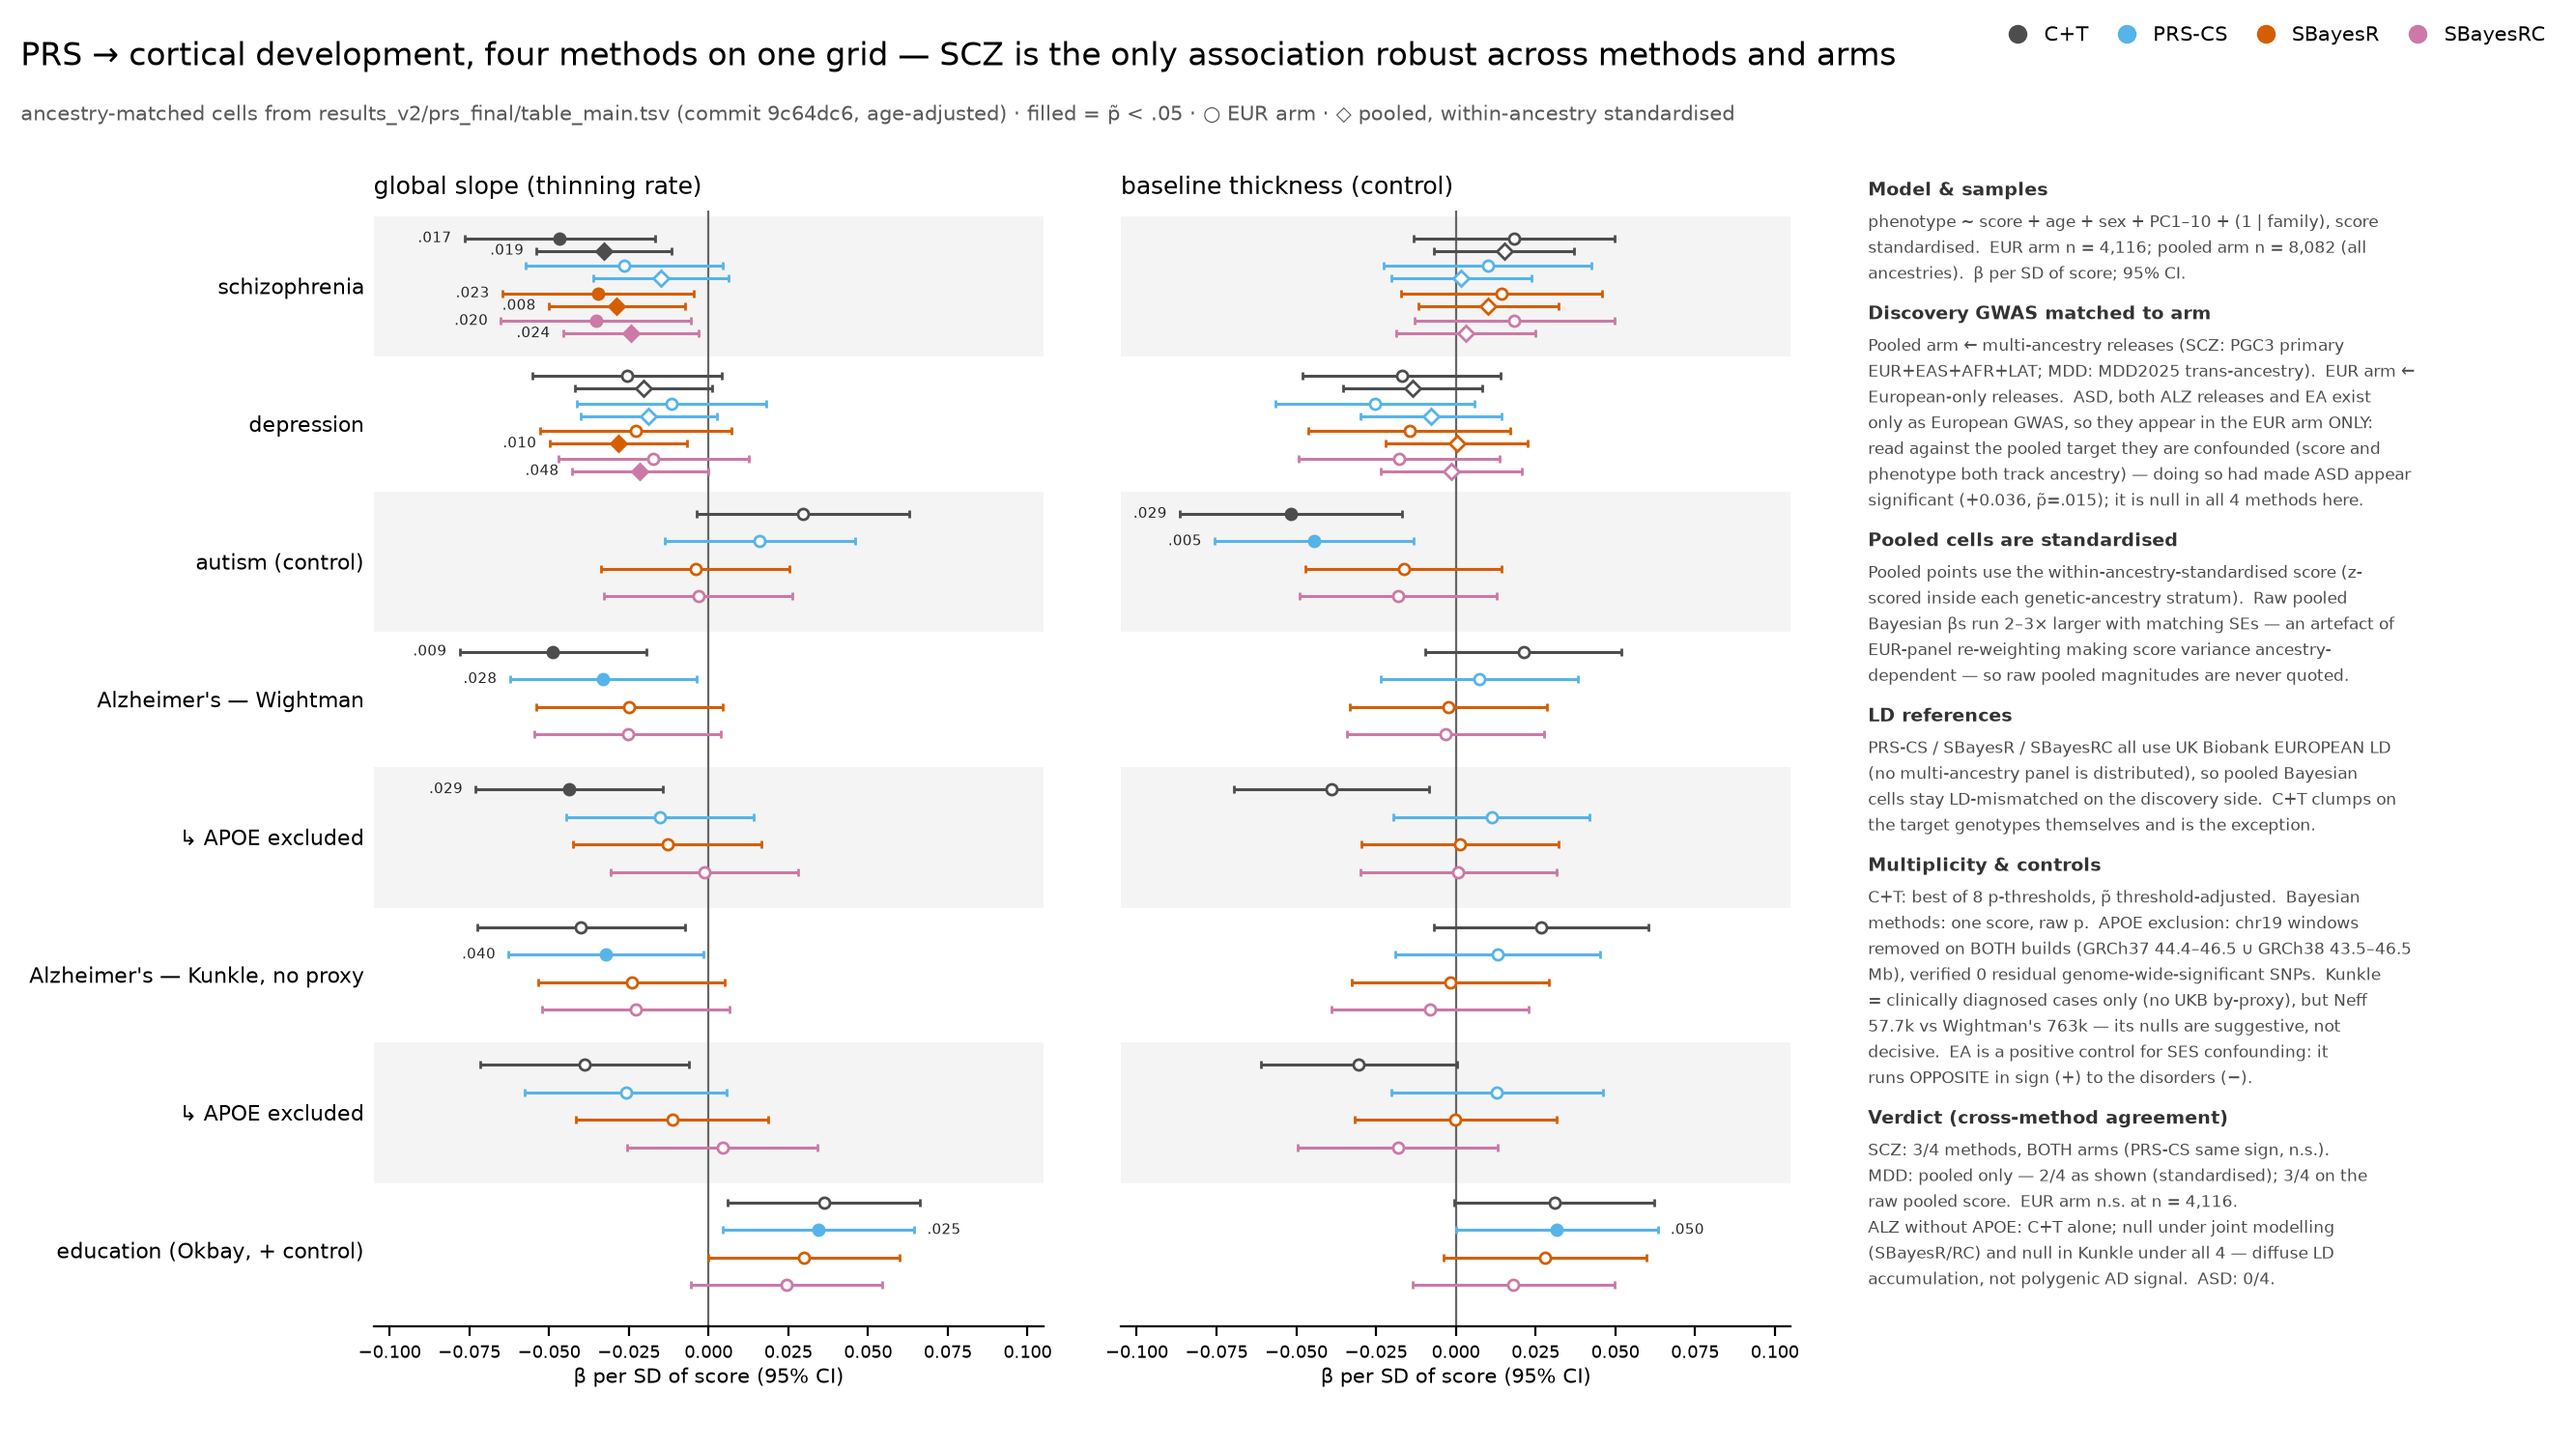
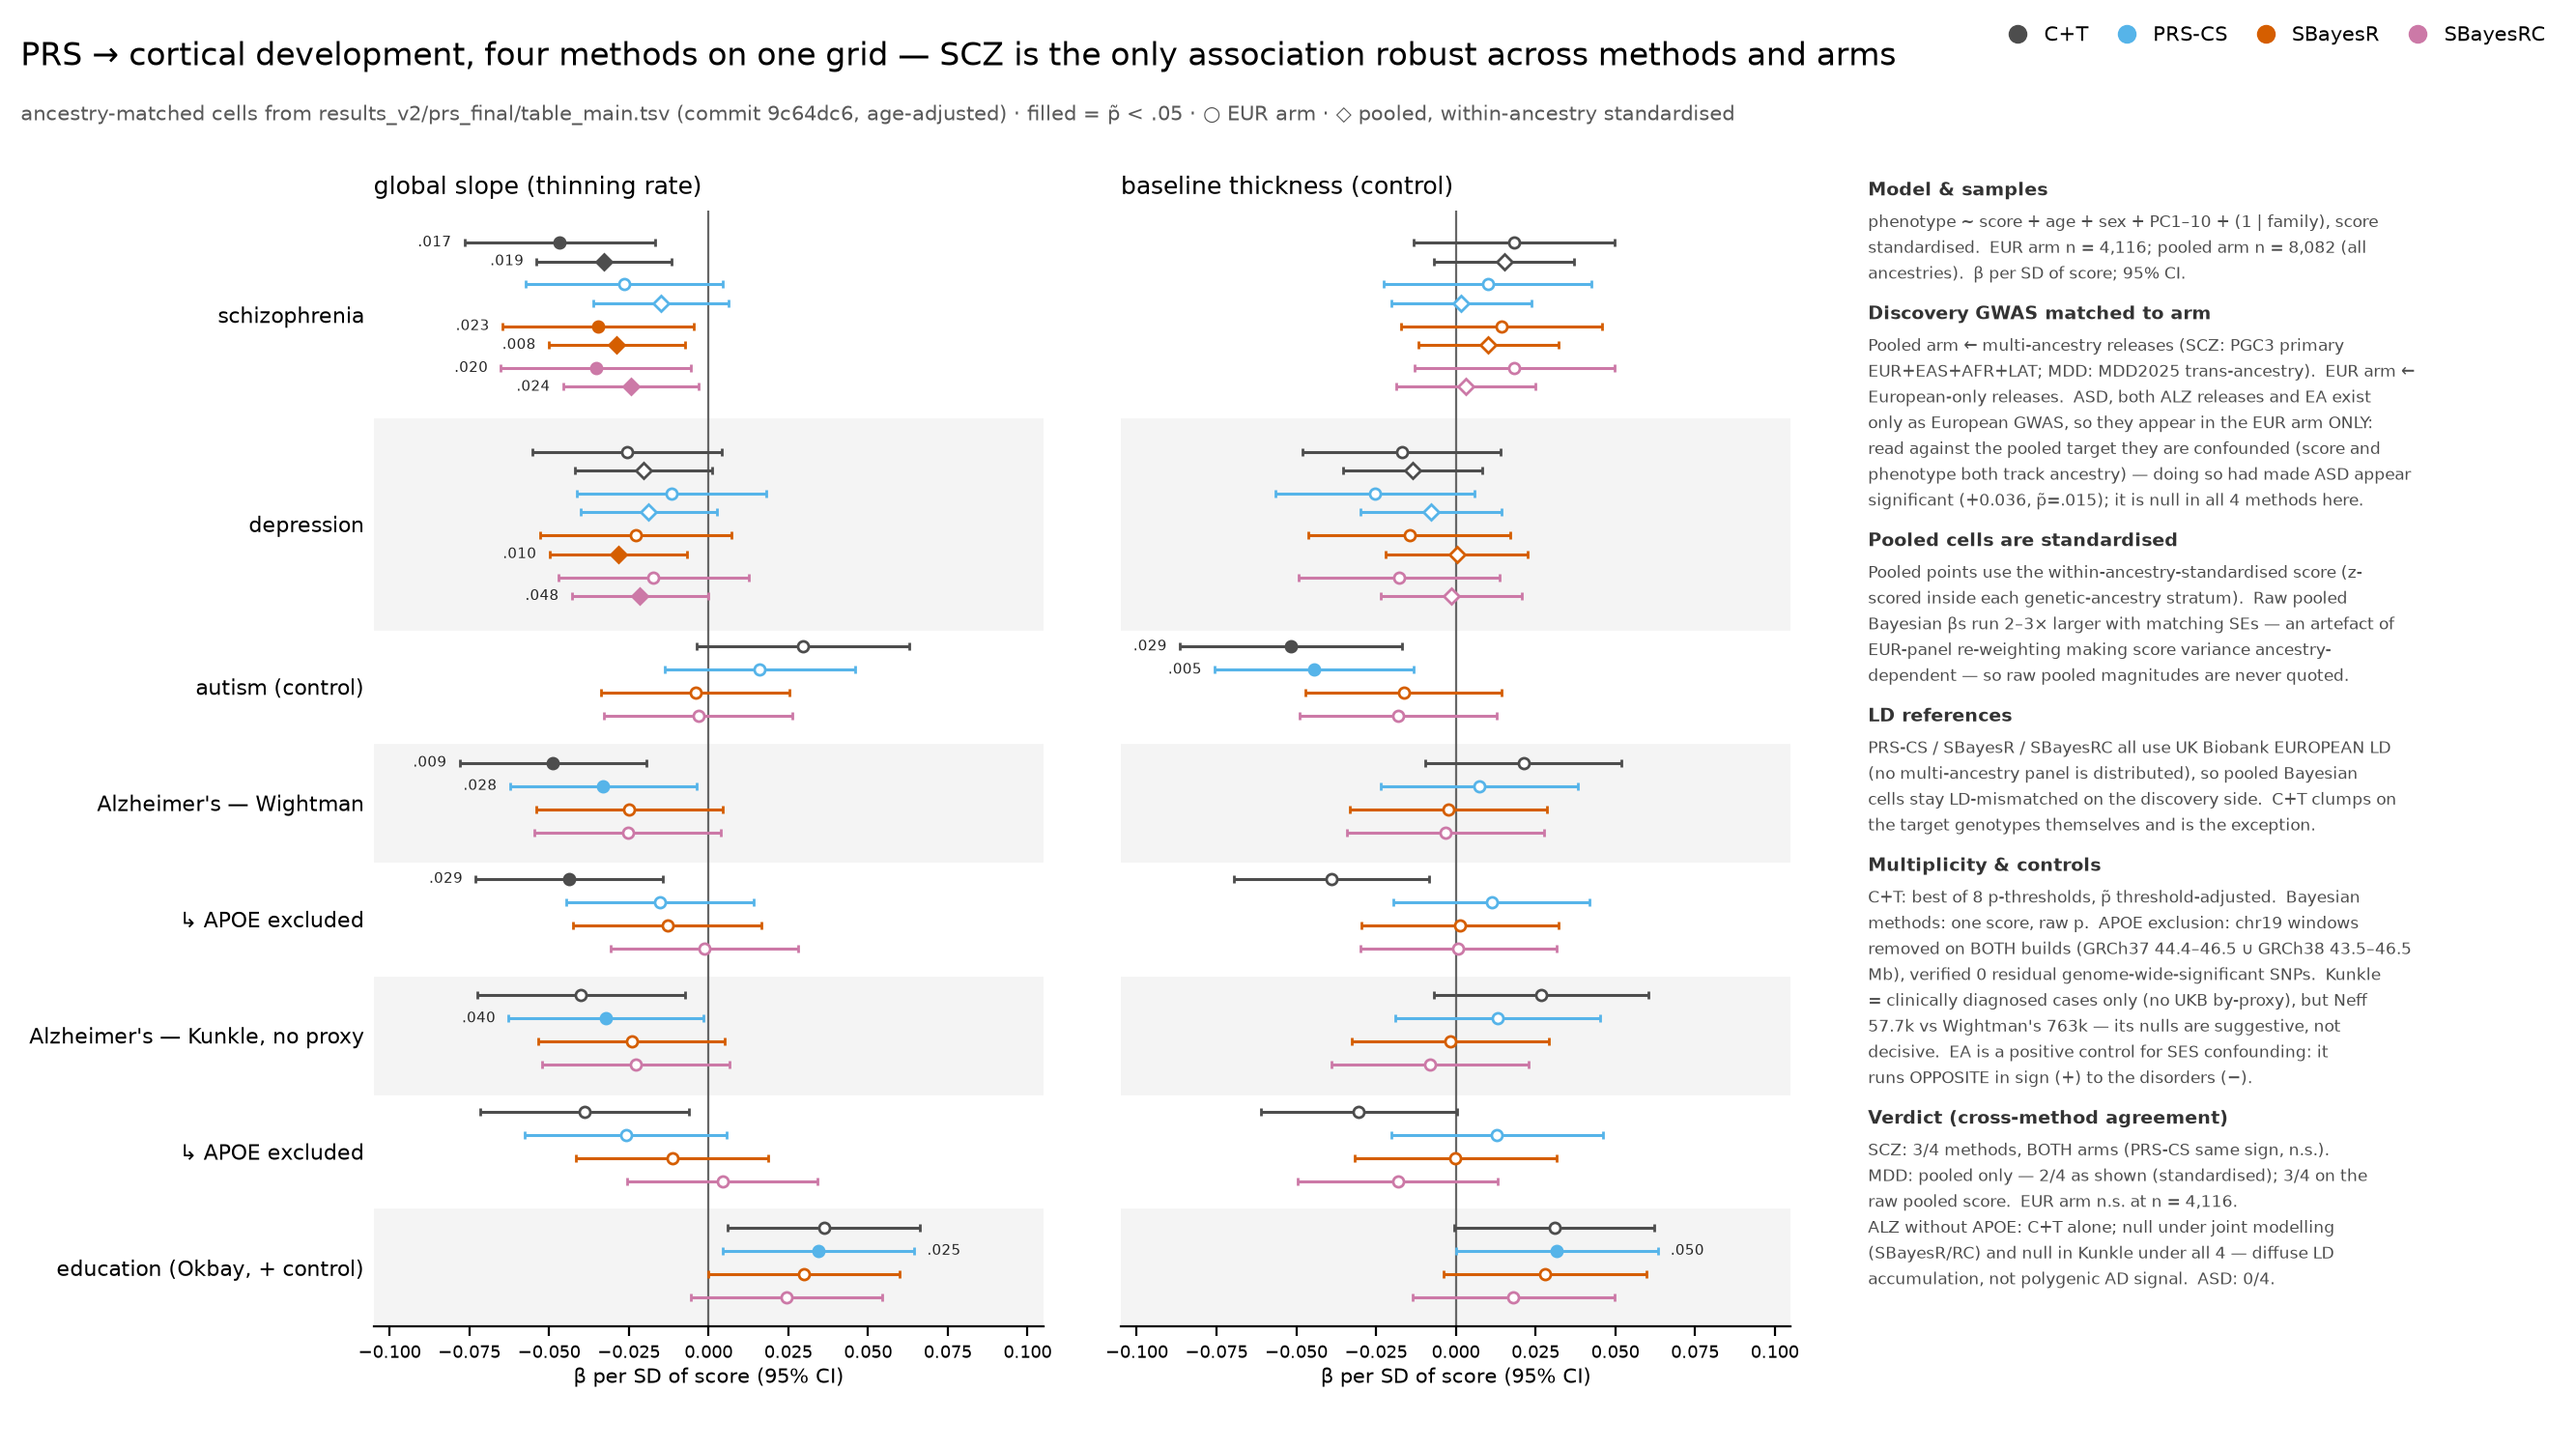
hpc_v3: variable band heights on the methods slide (space='free_y' behaviour)
SCZ and MDD carry 8 markers per band (4 methods x 2 arms) against the
controls' 4, and were cramped at uniform band height. Bands now declare a
height (1.8 for the two-arm disorders, 1.0 for controls) and marker dodges
scale in units of the band's own height, so each band's markers fill it
evenly -- the ggplot facet_grid(space='free_y') behaviour, done manually
since the layout is hand-placed axes.

diff --git a/hpc_v3/slide_prs_methods.py b/hpc_v3/slide_prs_methods.py
@@ -39,17 +39,27 @@ PHENOS = ["global_slope", "baseline_thickness"]
 PHENO_TITLE = {"global_slope": "global slope (thinning rate)",
                "baseline_thickness": "baseline thickness (control)"}
 
-#: facet rows, top to bottom: hypothesis traits, then controls
+#: facet rows, top to bottom: hypothesis traits, then controls.  The height
+#: field gives two-arm bands proportionally more vertical space (8 markers vs
+#: 4) -- the ggplot space='free_y' behaviour.
 BANDS = [
-    ("SCZ", "schizophrenia", ("SCZ_eur", "SCZ_pooled")),
-    ("MDD", "depression", ("MDD_eur", "MDD_pooled")),
-    ("ASD", "autism (control)", ("ASD",)),
-    ("ALZ", "Alzheimer's — Wightman", ("ALZ",)),
-    ("ALZ_noAPOE", "  ↳ APOE excluded", ("ALZ_noAPOE",)),
-    ("ALZ_IGAP", "Alzheimer's — Kunkle, no proxy", ("ALZ_IGAP",)),
-    ("ALZ_IGAP_noAPOE", "  ↳ APOE excluded", ("ALZ_IGAP_noAPOE",)),
-    ("EA", "education (Okbay, + control)", ("EA",)),
+    ("SCZ", "schizophrenia", ("SCZ_eur", "SCZ_pooled"), 1.8),
+    ("MDD", "depression", ("MDD_eur", "MDD_pooled"), 1.8),
+    ("ASD", "autism (control)", ("ASD",), 1.0),
+    ("ALZ", "Alzheimer's — Wightman", ("ALZ",), 1.0),
+    ("ALZ_noAPOE", "  ↳ APOE excluded", ("ALZ_noAPOE",), 1.0),
+    ("ALZ_IGAP", "Alzheimer's — Kunkle, no proxy", ("ALZ_IGAP",), 1.0),
+    ("ALZ_IGAP_noAPOE", "  ↳ APOE excluded", ("ALZ_IGAP_noAPOE",), 1.0),
+    ("EA", "education (Okbay, + control)", ("EA",), 1.0),
 ]
+
+#: band geometry, top to bottom (y decreasing)
+_TOTAL_H = sum(b[3] for b in BANDS)
+BAND_GEOM = {}
+_y = _TOTAL_H
+for _key, _lab, _tas, _h in BANDS:
+    BAND_GEOM[_key] = dict(top=_y, bottom=_y - _h, center=_y - _h / 2, h=_h)
+    _y -= _h
 
 # Okabe-Ito, one hue per method (grey = the non-Bayesian baseline)
 METHOD_ORDER = ["CT", "PRSCS", "SBayesR", "SBayesRC"]
@@ -74,7 +84,7 @@ def load() -> pd.DataFrame:
            ((t.target_stratum == "full") & (t.score == "zanc"))
     t = t[keep].copy()
     t["arm"] = t.target_stratum.map({"EUR": "EUR", "full": "pooled"})
-    band_of = {ta: name for name, _, tas in BANDS for ta in tas}
+    band_of = {ta: name for name, _, tas, _h in BANDS for ta in tas}
     t["band"] = t.trait_arm.map(band_of)
     assert t.band.notna().all(), sorted(t[t.band.isna()].trait_arm.unique())
     # one row per cell (C+T rows are already the selected best threshold)
@@ -85,10 +95,10 @@ def load() -> pd.DataFrame:
 
 def panel(fig, rect, d, title, show_ylab):
     ax = fig.add_axes(rect)
-    n = len(BANDS)
     for _, r in d.iterrows():
-        bi = [b[0] for b in BANDS].index(r.band)
-        y = (n - 1 - bi) + DODGE[r.method] + ARM_DODGE[r.arm]
+        g = BAND_GEOM[r.band]
+        # dodge in units of THIS band's height, so markers fill it evenly
+        y = g["center"] + (DODGE[r.method] + ARM_DODGE[r.arm]) * g["h"]
         c = METHOD_COLOR[r.method]
         sig = r.p_adj < 0.05
         ax.errorbar(r.beta, y, xerr=1.96 * r.se, fmt="none", ecolor=c,
@@ -100,15 +110,16 @@ def panel(fig, rect, d, title, show_ylab):
             ax.text(r.beta + sgn * (1.96 * r.se + 0.004), y, _fmt_p(r.p_adj),
                     fontsize=SMALL - 2, ha="left" if sgn > 0 else "right",
                     va="center", color="0.15", zorder=4)
-    ax.set_ylim(-0.55, n - 0.45)
-    for i in range(n):
+    ax.set_ylim(0, _TOTAL_H)
+    for i, (key, *_rest) in enumerate(BANDS):
         if i % 2 == 1:
-            ax.axhspan(i - 0.5, i + 0.5, color="0.955", zorder=0)
+            g = BAND_GEOM[key]
+            ax.axhspan(g["bottom"], g["top"], color="0.955", zorder=0)
     ax.axvline(0, color="0.4", lw=0.8, zorder=1)
     ax.set_xlim(-0.105, 0.105)
-    ax.set_yticks(range(n))
+    ax.set_yticks([BAND_GEOM[b[0]]["center"] for b in BANDS])
     if show_ylab:
-        ax.set_yticklabels([b[1] for b in BANDS[::-1]], fontsize=SMALL + 0.5)
+        ax.set_yticklabels([b[1] for b in BANDS], fontsize=SMALL + 0.5)
     else:
         ax.set_yticklabels([])
     ax.set_xlabel("β per SD of score (95% CI)", fontsize=SMALL, labelpad=2)
